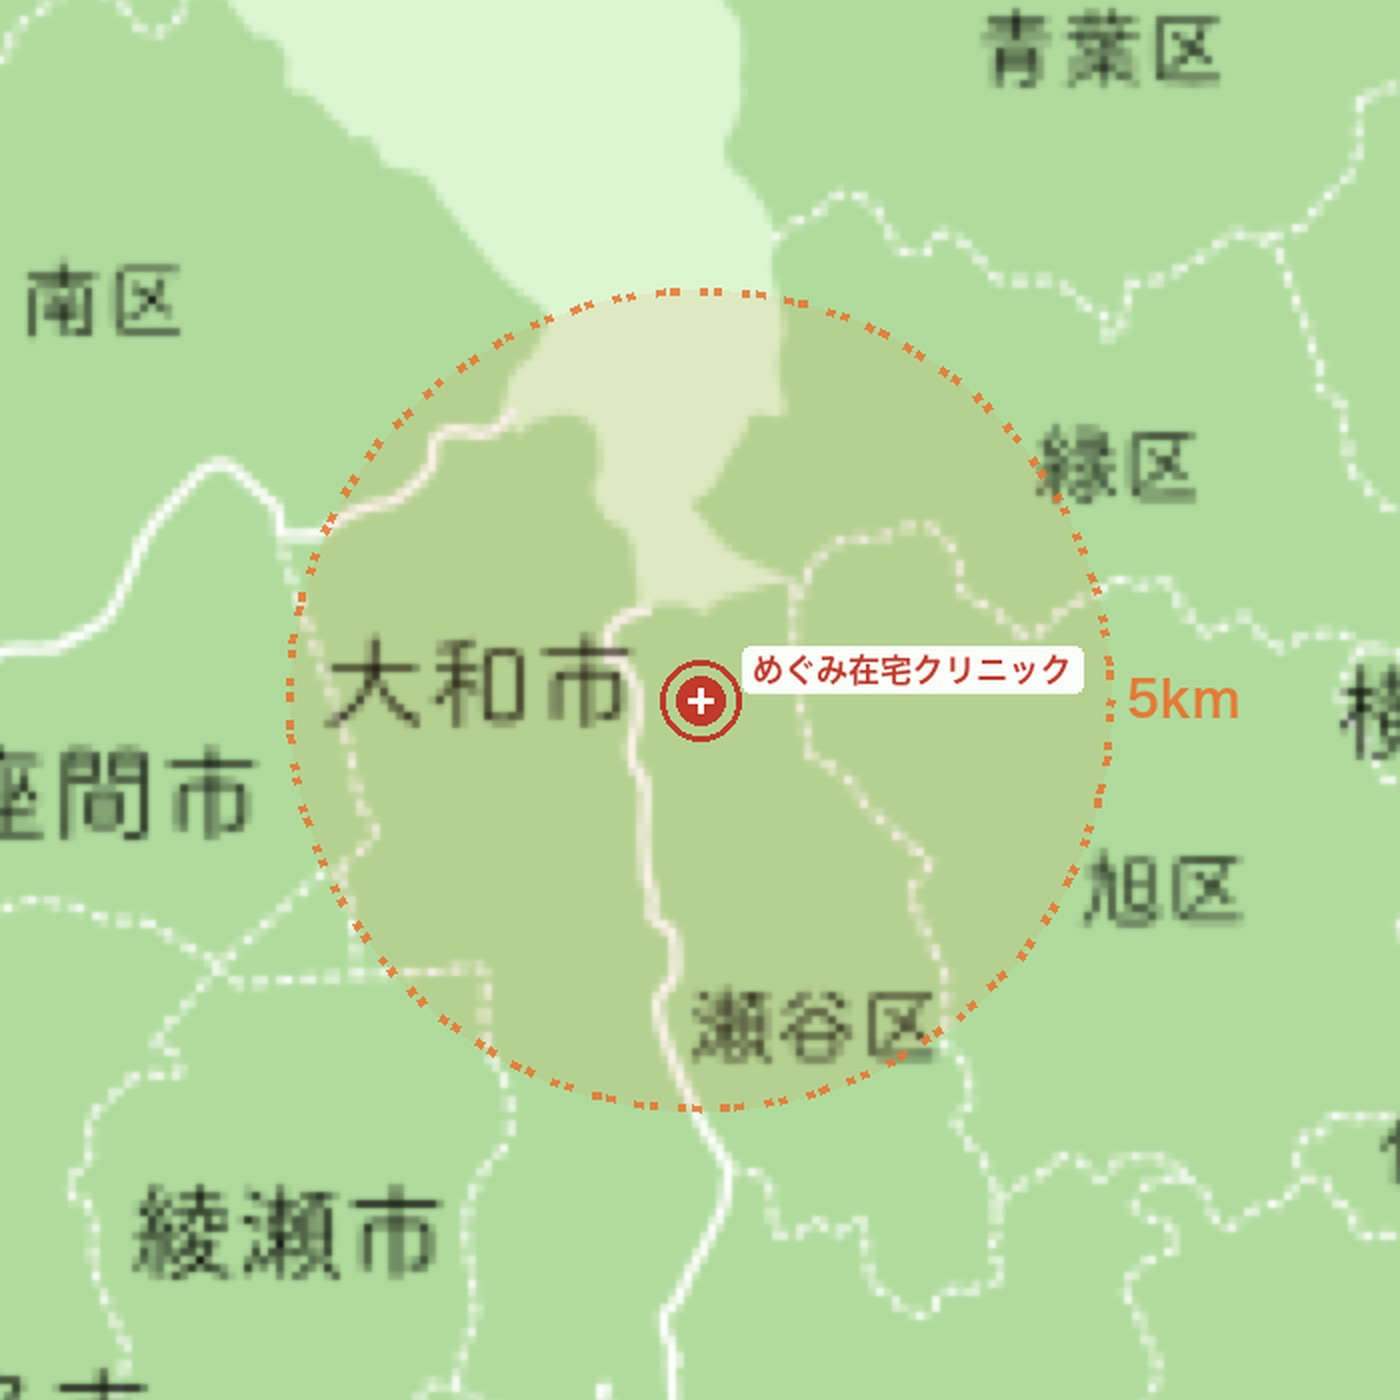
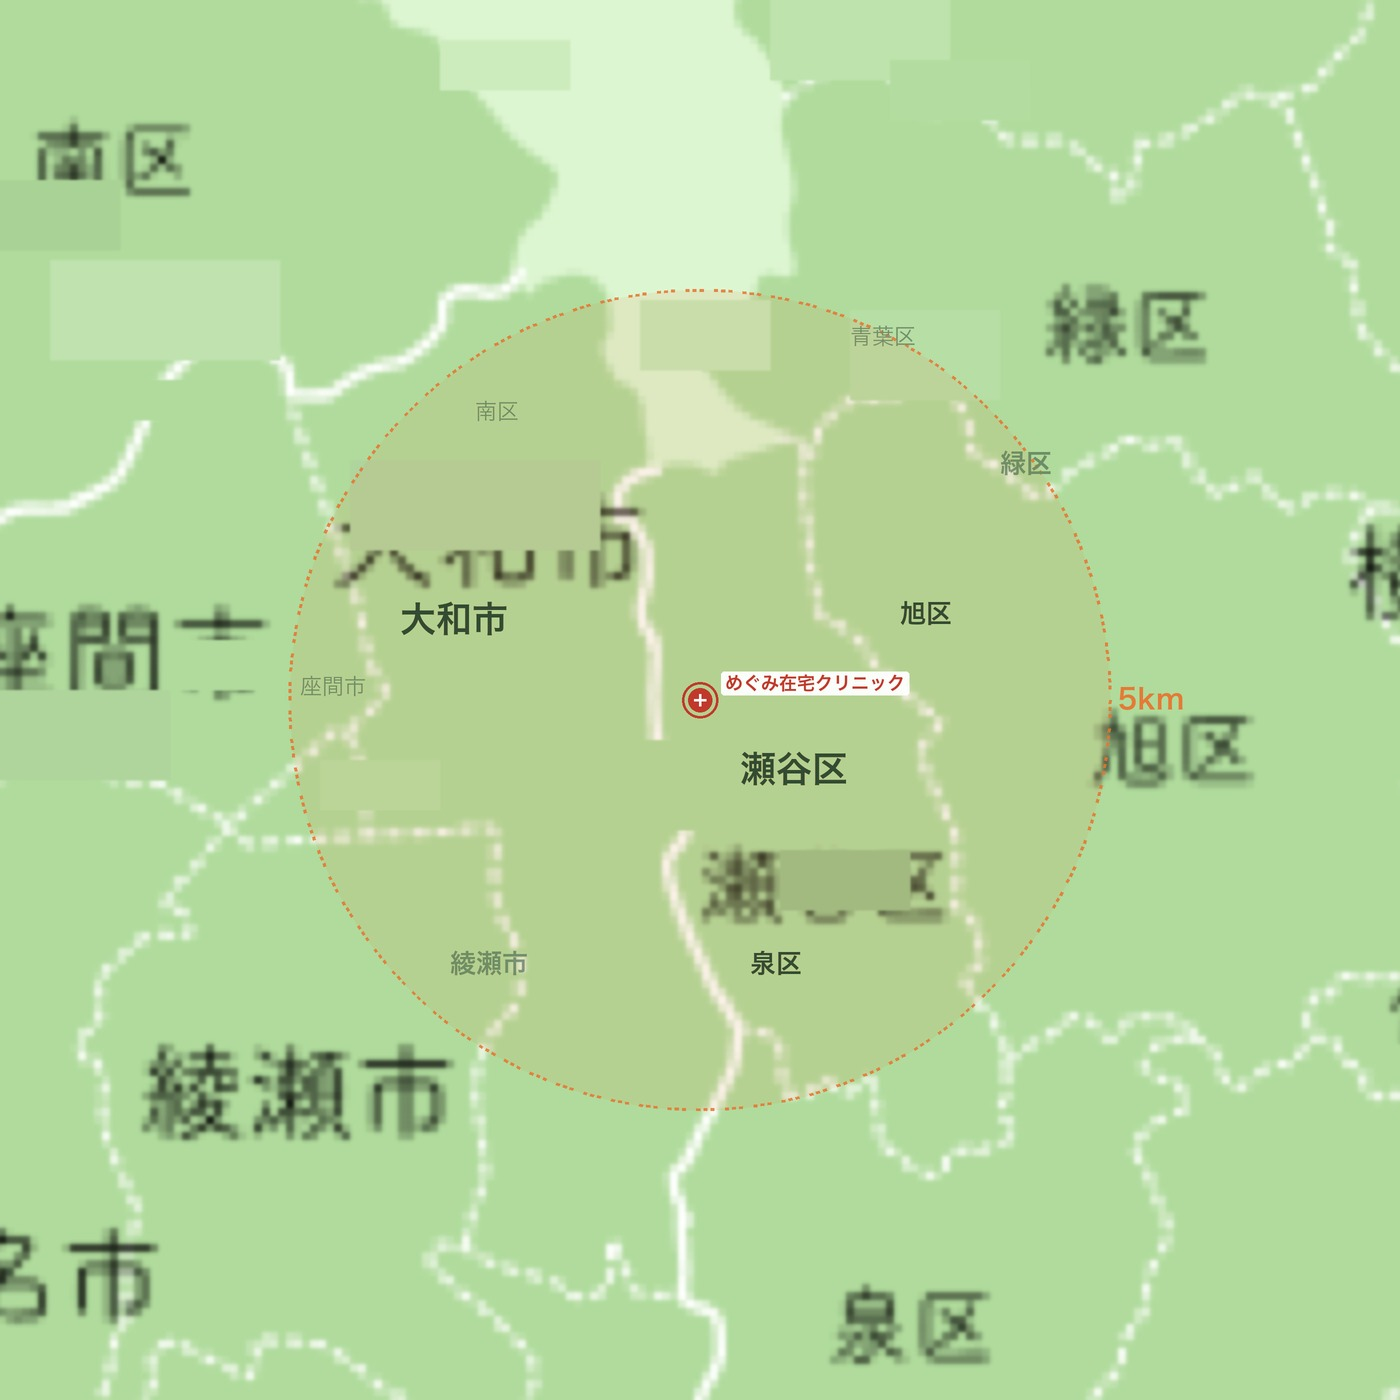
feat: 対応エリア地図を国土地理院Leafletマップに差し替え
- 座標を正確な35.4628, 139.4963（瀬谷区橋戸2-4-3）に修正
- 国土地理院淡色地図タイル使用（利用確認済み）
- 5km圏をLeaflet.circleで正確に描画
- インタラクティブ（ズーム・パン可能）
- 静的画像からLeaflet動的マップに移行

diff --git a/src/components/ui/ServiceAreaMap.tsx b/src/components/ui/ServiceAreaMap.tsx
@@ -1,29 +1,113 @@
-import Image from "next/image";
+/* eslint-disable @typescript-eslint/no-explicit-any */
+"use client";
+
+import { useEffect, useRef } from "react";
+
+const CLINIC_LAT = 35.4628;
+const CLINIC_LNG = 139.4963;
+const RADIUS_M = 5000;
 
 export default function ServiceAreaMap() {
+  const mapRef = useRef<HTMLDivElement>(null);
+  const mapInstanceRef = useRef<any>(null);
+
+  useEffect(() => {
+    if (!mapRef.current || mapInstanceRef.current) return;
+
+    // Leaflet CSSを動的に追加
+    if (!document.querySelector('link[href*="leaflet"]')) {
+      const link = document.createElement("link");
+      link.rel = "stylesheet";
+      link.href = "https://cdn.jsdelivr.net/npm/leaflet@1.9.3/dist/leaflet.css";
+      document.head.appendChild(link);
+    }
+
+    // Leaflet JSを動的にロード
+    const script = document.createElement("script");
+    script.src = "https://cdn.jsdelivr.net/npm/leaflet@1.9.3/dist/leaflet.js";
+    script.onload = () => {
+      const L = (window as any).L;
+
+      if (!L || !mapRef.current) return;
+
+      const map = L.map(mapRef.current, {
+        center: [CLINIC_LAT, CLINIC_LNG],
+        zoom: 13,
+        zoomControl: true,
+        scrollWheelZoom: false,
+      });
+
+      mapInstanceRef.current = map;
+
+      // 国土地理院 淡色地図
+      L.tileLayer("https://cyberjapandata.gsi.go.jp/xyz/pale/{z}/{x}/{y}.png", {
+        attribution: '<a href="https://maps.gsi.go.jp/development/ichiran.html">国土地理院</a>',
+        maxZoom: 18,
+      }).addTo(map);
+
+      // 5km圏の円
+      L.circle([CLINIC_LAT, CLINIC_LNG], {
+        radius: RADIUS_M,
+        color: "#E87430",
+        weight: 2,
+        dashArray: "8 4",
+        fillColor: "#E87430",
+        fillOpacity: 0.06,
+      }).addTo(map);
+
+      // クリニックマーカー
+      const icon = L.divIcon({
+        html: `<div style="
+          width: 28px; height: 28px;
+          background: #192044;
+          border: 3px solid #E87430;
+          border-radius: 50%;
+          display: flex; align-items: center; justify-content: center;
+          color: white; font-size: 14px; font-weight: bold;
+        ">+</div>`,
+        iconSize: [28, 28],
+        iconAnchor: [14, 14],
+        className: "",
+      });
+
+      const popupHtml = [
+        "\x3cb\x3eめぐみ在宅クリニック\x3c/b\x3e",
+        "横浜市瀬谷区橋戸2-4-3",
+        "TEL: 045-300-6630",
+      ].join("\x3cbr/\x3e");
+
+      L.marker([CLINIC_LAT, CLINIC_LNG], { icon })
+        .addTo(map)
+        .bindPopup(popupHtml);
+    };
+    document.head.appendChild(script);
+
+    return () => {
+      // クリーンアップ
+      if (mapInstanceRef.current) {
+        (mapInstanceRef.current as { remove: () => void }).remove();
+        mapInstanceRef.current = null;
+      }
+    };
+  }, []);
+
   return (
-    <div className="relative w-full max-w-[640px] mx-auto">
-      <div className="rounded-2xl overflow-hidden shadow-sm">
-        <Image
-          src="/images/service-area-map.jpg"
-          alt="訪問対応エリア — クリニックから5km以内（瀬谷区・泉区・大和市・旭区の一部）"
-          width={1400}
-          height={1400}
-          className="w-full h-auto"
-        />
-      </div>
-      <div className="flex flex-wrap gap-3 mt-4 justify-center text-xs">
+    <div className="rounded-2xl overflow-hidden shadow-sm border border-gray-200">
+      <div
+        ref={mapRef}
+        style={{ width: "100%", height: "450px" }}
+      />
+      <div className="bg-white px-4 py-3 flex flex-wrap gap-4 text-xs text-text-secondary">
         <span className="flex items-center gap-1.5">
-          <span className="w-3 h-3 rounded-full bg-navy inline-block" />
-          クリニック
+          <span className="w-3 h-3 rounded-full bg-navy border-2 border-sunrise inline-block" />
+          めぐみ在宅クリニック
         </span>
         <span className="flex items-center gap-1.5">
-          <span className="w-6 h-0.5 border-t-2 border-dashed border-sunrise inline-block" />
-          5km圏
+          <span className="w-5 h-0 border-t-2 border-dashed border-sunrise inline-block" />
+          訪問対応エリア（5km以内）
         </span>
-        <span className="flex items-center gap-1.5">
-          <span className="w-6 h-0.5 border-t border-dashed border-sunrise/50 inline-block" />
-          3km圏
+        <span className="text-text-muted">
+          地図：国土地理院
         </span>
       </div>
     </div>
